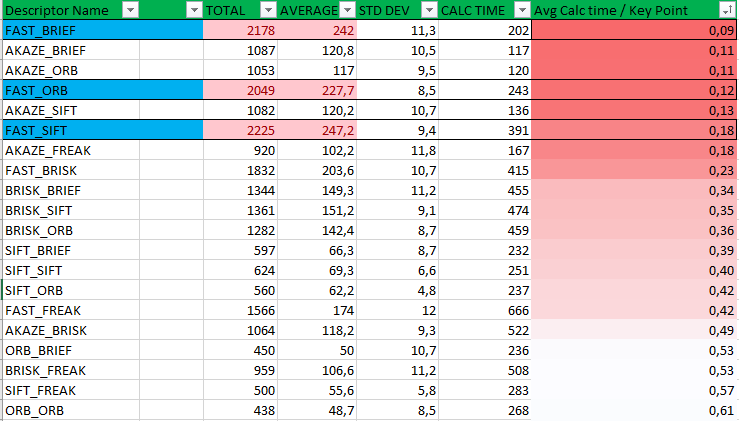
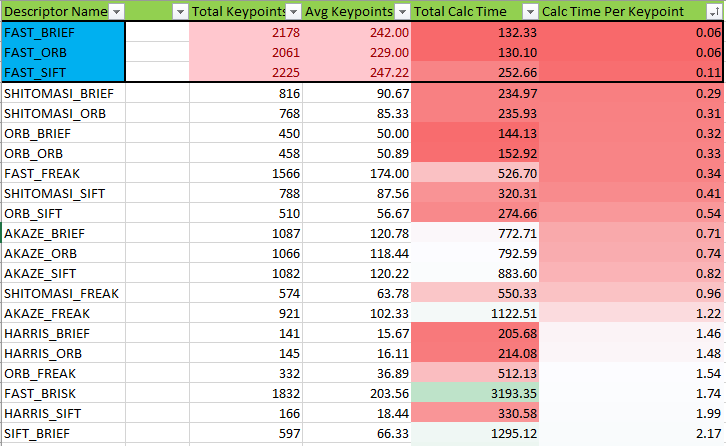
Updated the writeup

diff --git a/SFND_2D_Feature_Tracking/README.md b/SFND_2D_Feature_Tracking/README.md
@@ -173,11 +173,11 @@ The csv file with all the counted values is located at: [MP.8](./Keypoints_Task_
 
 The time taken by the detectors to detect the keypoints, filtering keypoints around ROI, descriptors and then matching keypoints was computed and dumped into an csv file `Log_Time_Task_MP9.csv`. Link: [MP.9](./Log_Time_Task_MP9.csv)
 
-TOP | Descriptor Name	|	TOTAL |	AVERAGE |	STD DEV | 	CALC TIME | AVG CAL TIME
+TOP | Descriptor Name	|	TOTAL Keypoints |	AVERAGE Keypoints |	 	CALC TIME | CAL TIME / Keypoints
 ----|------------|-------|---------|----------|--------|---------
-1 |FAST_BRIEF	|	2178	|242,0	|11,3|	202.138 | 0.09
-2 |FAST_ORB	|	2049|	227,7	|8,5|	243.119 | 0.12
-3 |FAST_SIFT|		2225	|247,2|	9,4	|391.366 | 0.18
+1 |FAST_BRIEF	|	2178	|242,0	|	132.33 | 0.06
+2 |FAST_ORB	|	2061|	229	|	130.10 | 0.06
+3 |FAST_SIFT|		2225	|247,2|256.66 | 0.11
 
 For evaluating the TOP 3, following were considered:
 
